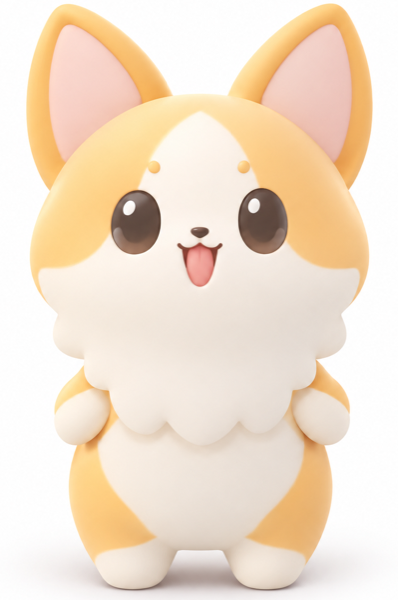
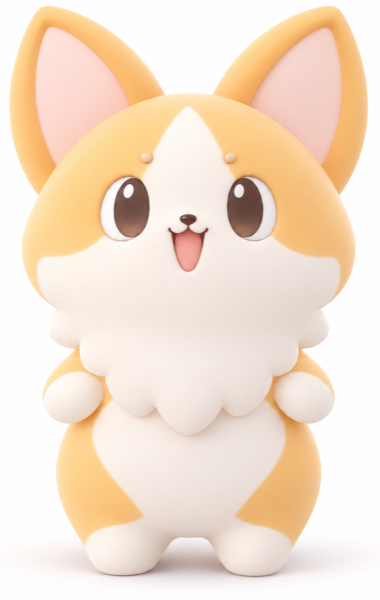
やるきーぬの標準の画像を差し替え（本体・卒展版）

diff --git a/作業ログ.md b/作業ログ.md
@@ -24,6 +24,11 @@
 
 ## 作業ログ（新しい順）
 
+### 2026-11-17 やるきーぬの標準の画像を差し替え
+- **指示**: やるきーぬの標準は「ふわふわコーギーの3Dトイレンダー.png」にして。
+- **対応**: 余白を切って高さ600pxに縮小し、`kamepace/public/chara/dog_normal.png` と `sotsuten/public/chara/dog_normal.png` を差し替え（ファイル名は同じなのでコードの変更なし）。
+- **検証**: 切り抜いた画像を目視で確認。
+
 ### 2026-11-17 2人目のキャラクター「やるきーぬ」（本体）
 - **指示**: いこいさんは残して、犬を2人目として入れる。切り替えはマイページで選ぶ方式。名前は一旦「やるきーぬ」。
 - **対応**（`kamepace/`）: `ikoi.js` に `CHARAS`（いこいさん／やるきーぬ）と `getChara/setChara`（端末ごと `localStorage` の `kame_chara`、カテゴリの色と同じ扱い）。やるきーぬのときは `faceSrc` が `public/chara/` の犬の画像を返す。表情は卒展版と同じ5つ（please/worry/happy/ok/think）に `DOG_ALIAS` で寄せ、画像がないものは normal。セリフは共通。マイページ「ひょうじ」に「キャラクター いこいさん｜やるきーぬ」。
